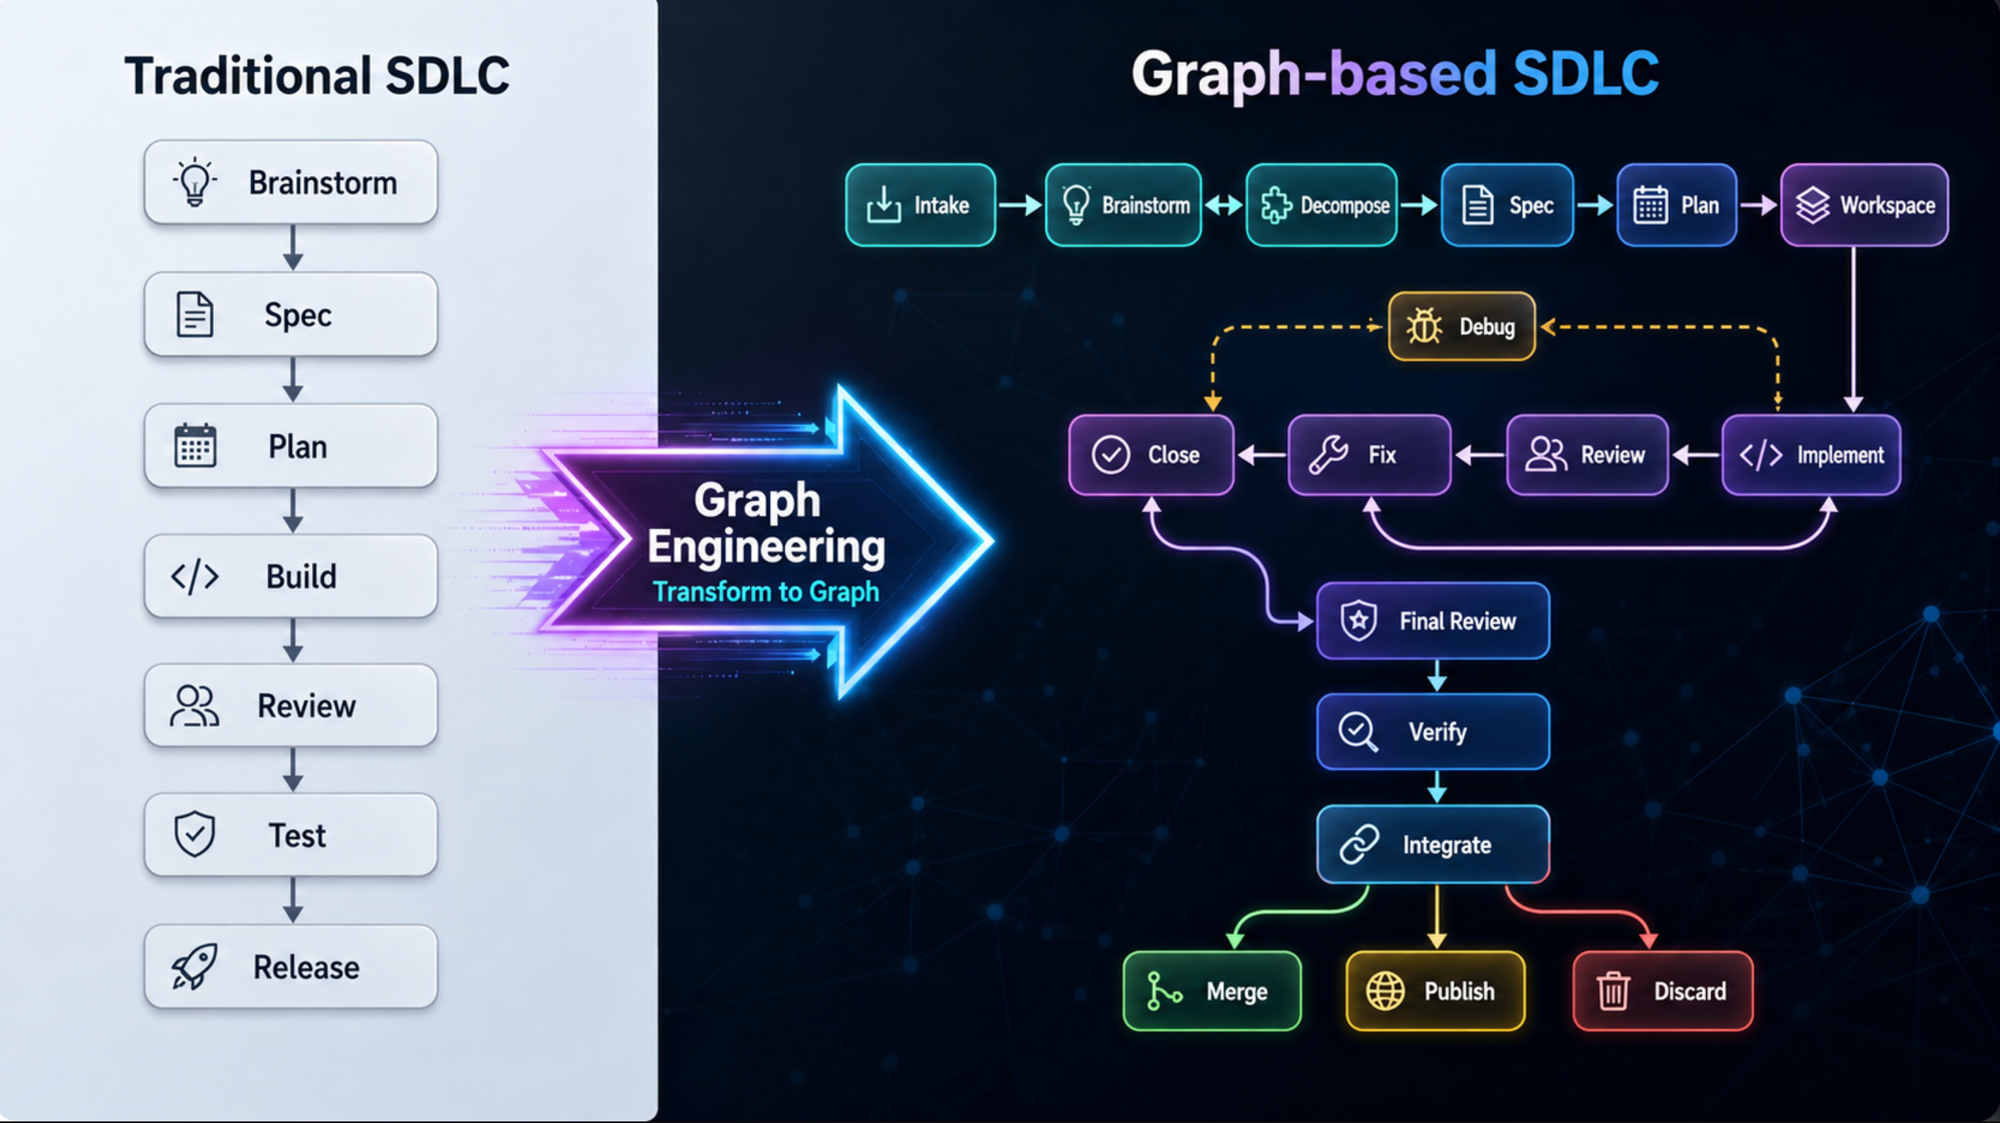
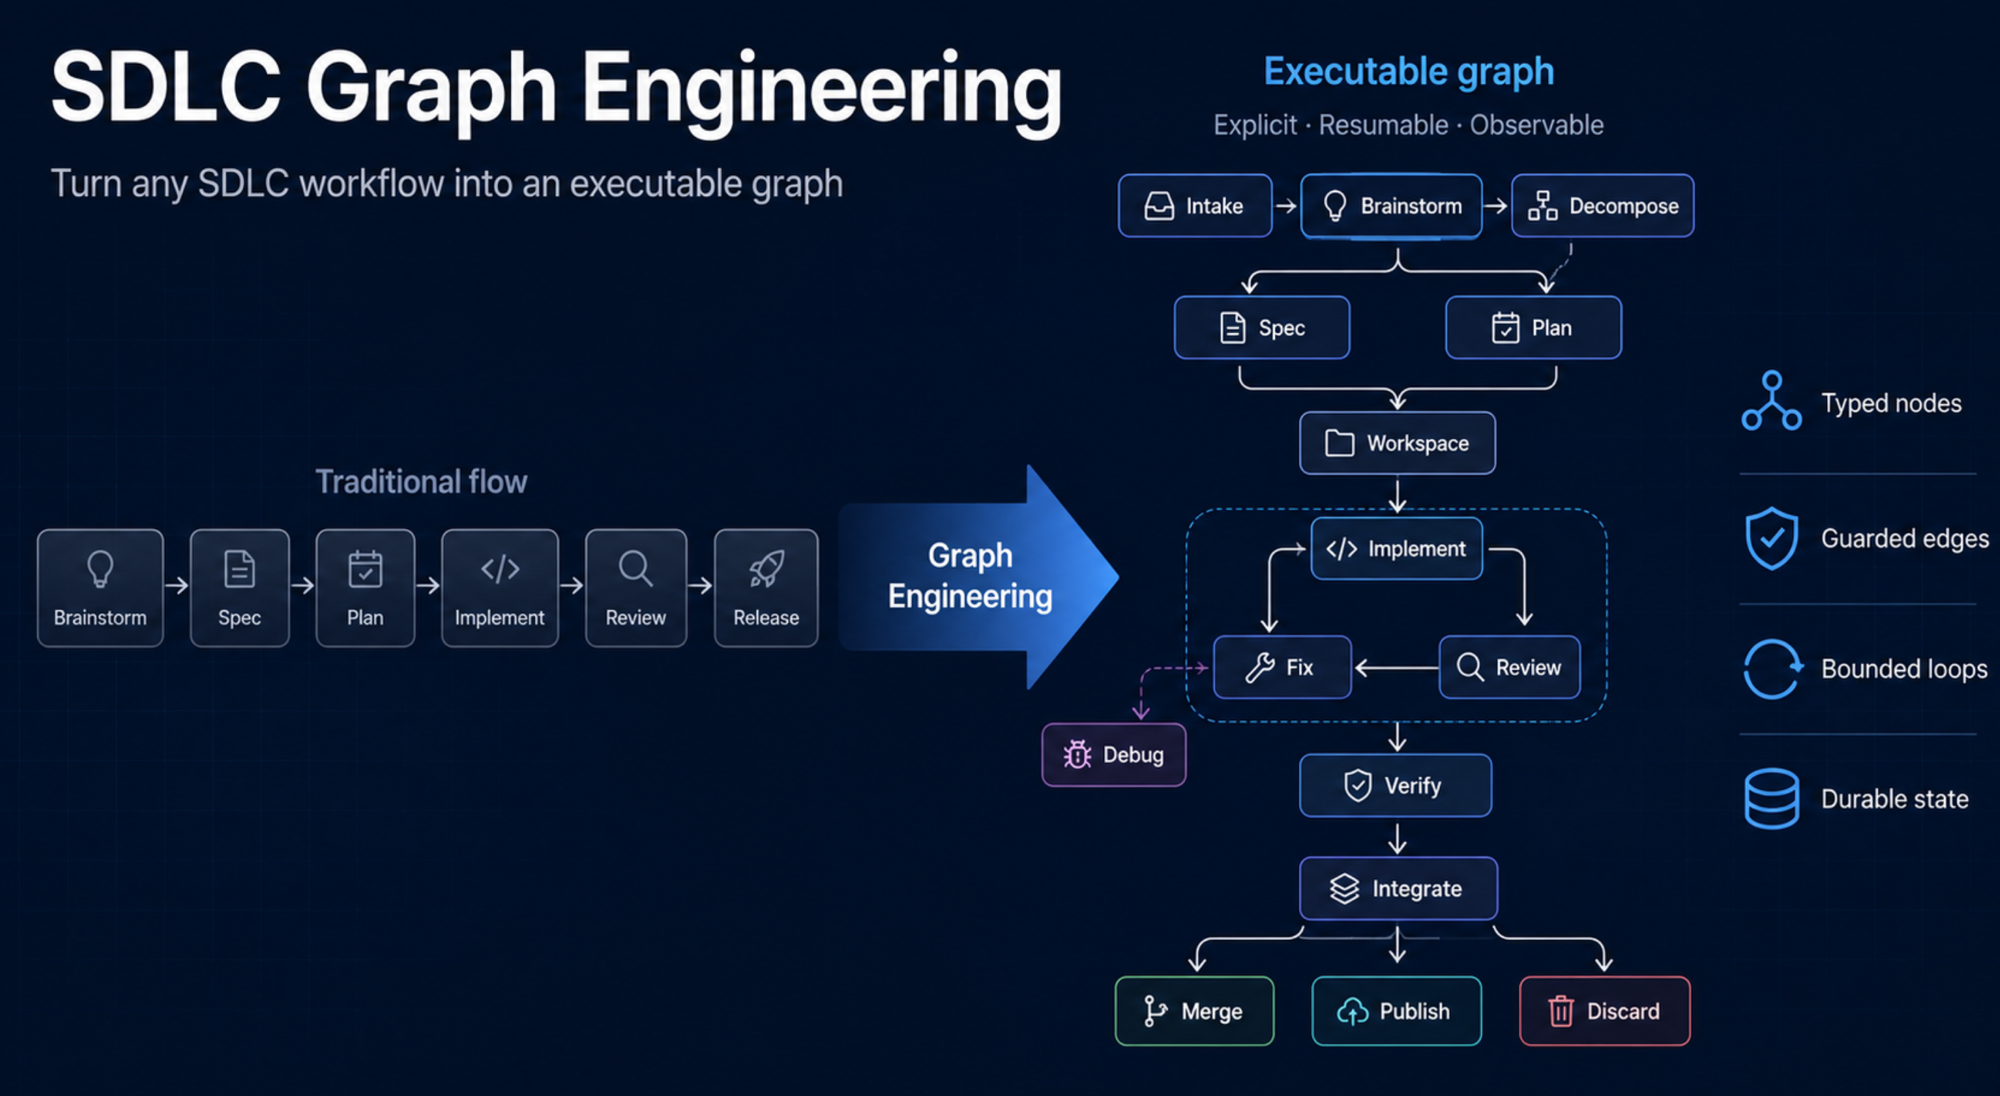
docs: replace README hero diagram with the executable-graph version (#2)
Swaps the diagram for the revised artwork and updates the alt text to
match: the legend now names typed nodes, guarded edges, bounded loops,
and durable state.

Claude-Session: https://claude.ai/code/session_01WagdL18zGamxdf1v7Tcxis

diff --git a/README.md b/README.md
@@ -15,7 +15,7 @@ keeps it honest — into *your* project. Then it proves the result sound before 
 &nbsp;![Domain agnostic](https://img.shields.io/badge/domain-agnostic-0d7d74)
 &nbsp;![Zero dependencies](https://img.shields.io/badge/dependencies-0-6a787c)
 
-![A linear SDLC — brainstorm, spec, plan, build, review, test, release — transformed by graph engineering into a guarded graph with branches, a debug cycle, and typed terminal states](docs/assets/traditional-vs-graph-sdlc.png)
+![A linear SDLC — brainstorm, spec, plan, implement, review, release — transformed by graph engineering into an executable graph with typed nodes, guarded edges, bounded loops, durable state, and three typed terminal states: merge, publish, discard](docs/assets/traditional-vs-graph-sdlc.png)
 
 ---
 
